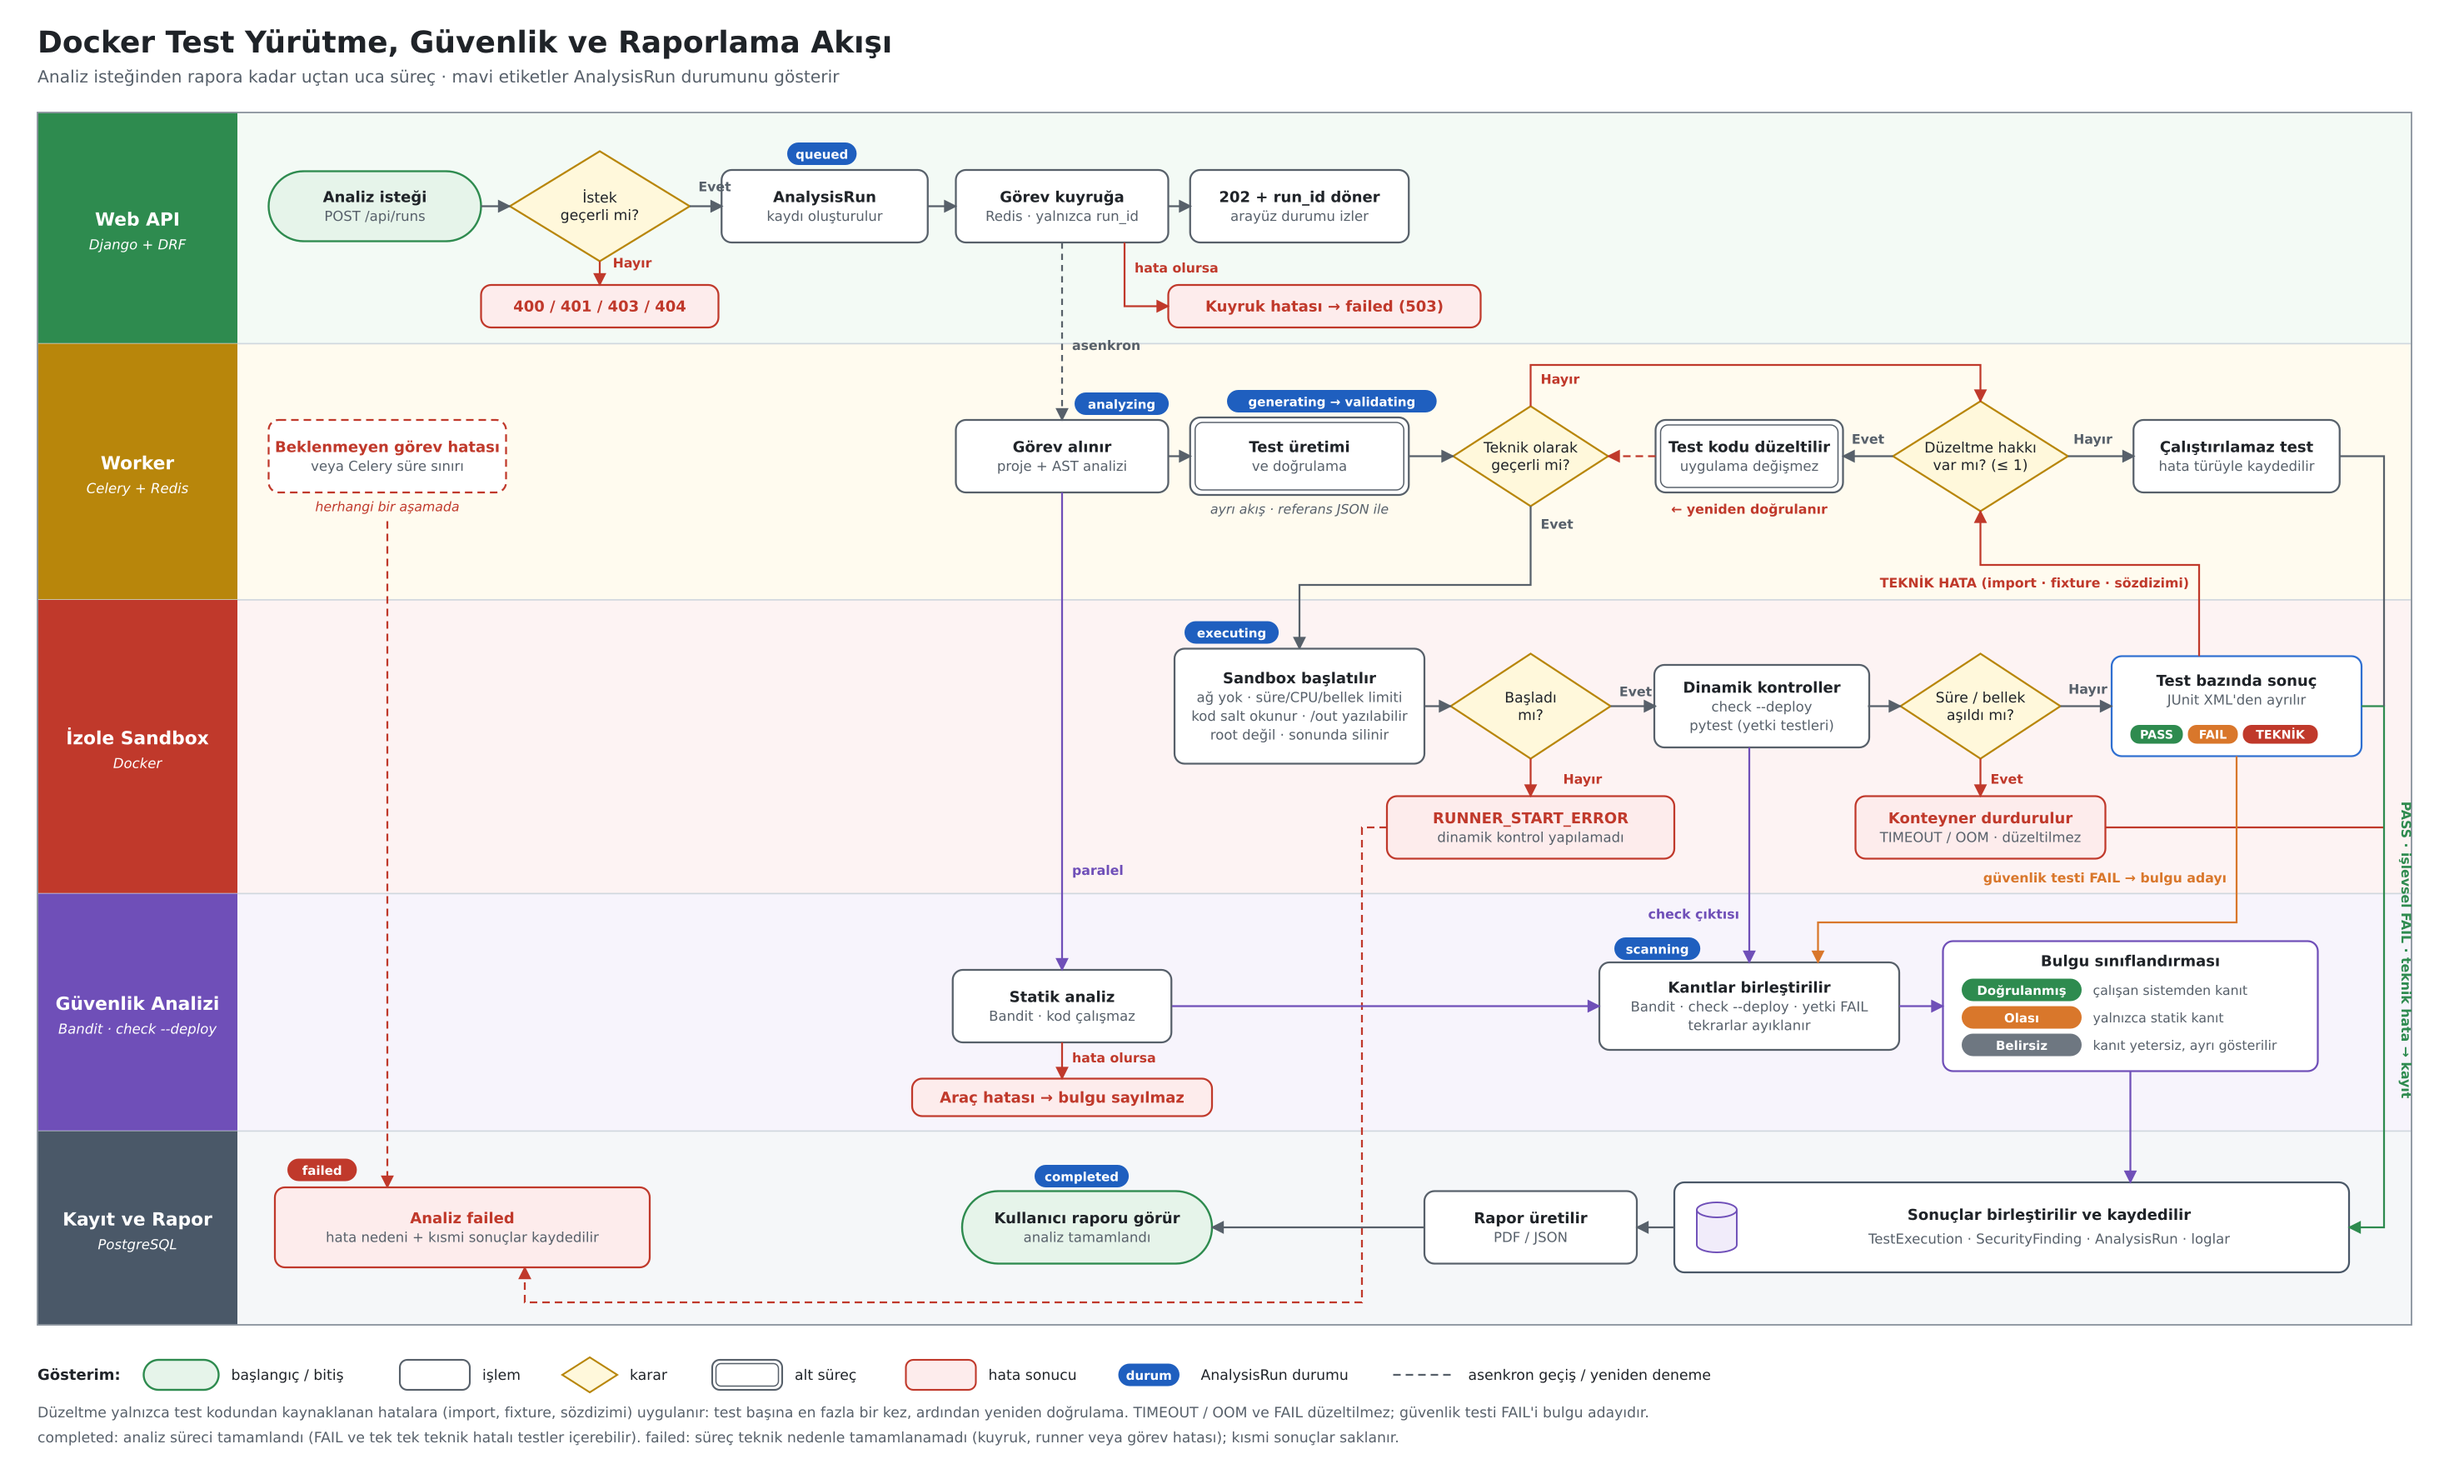
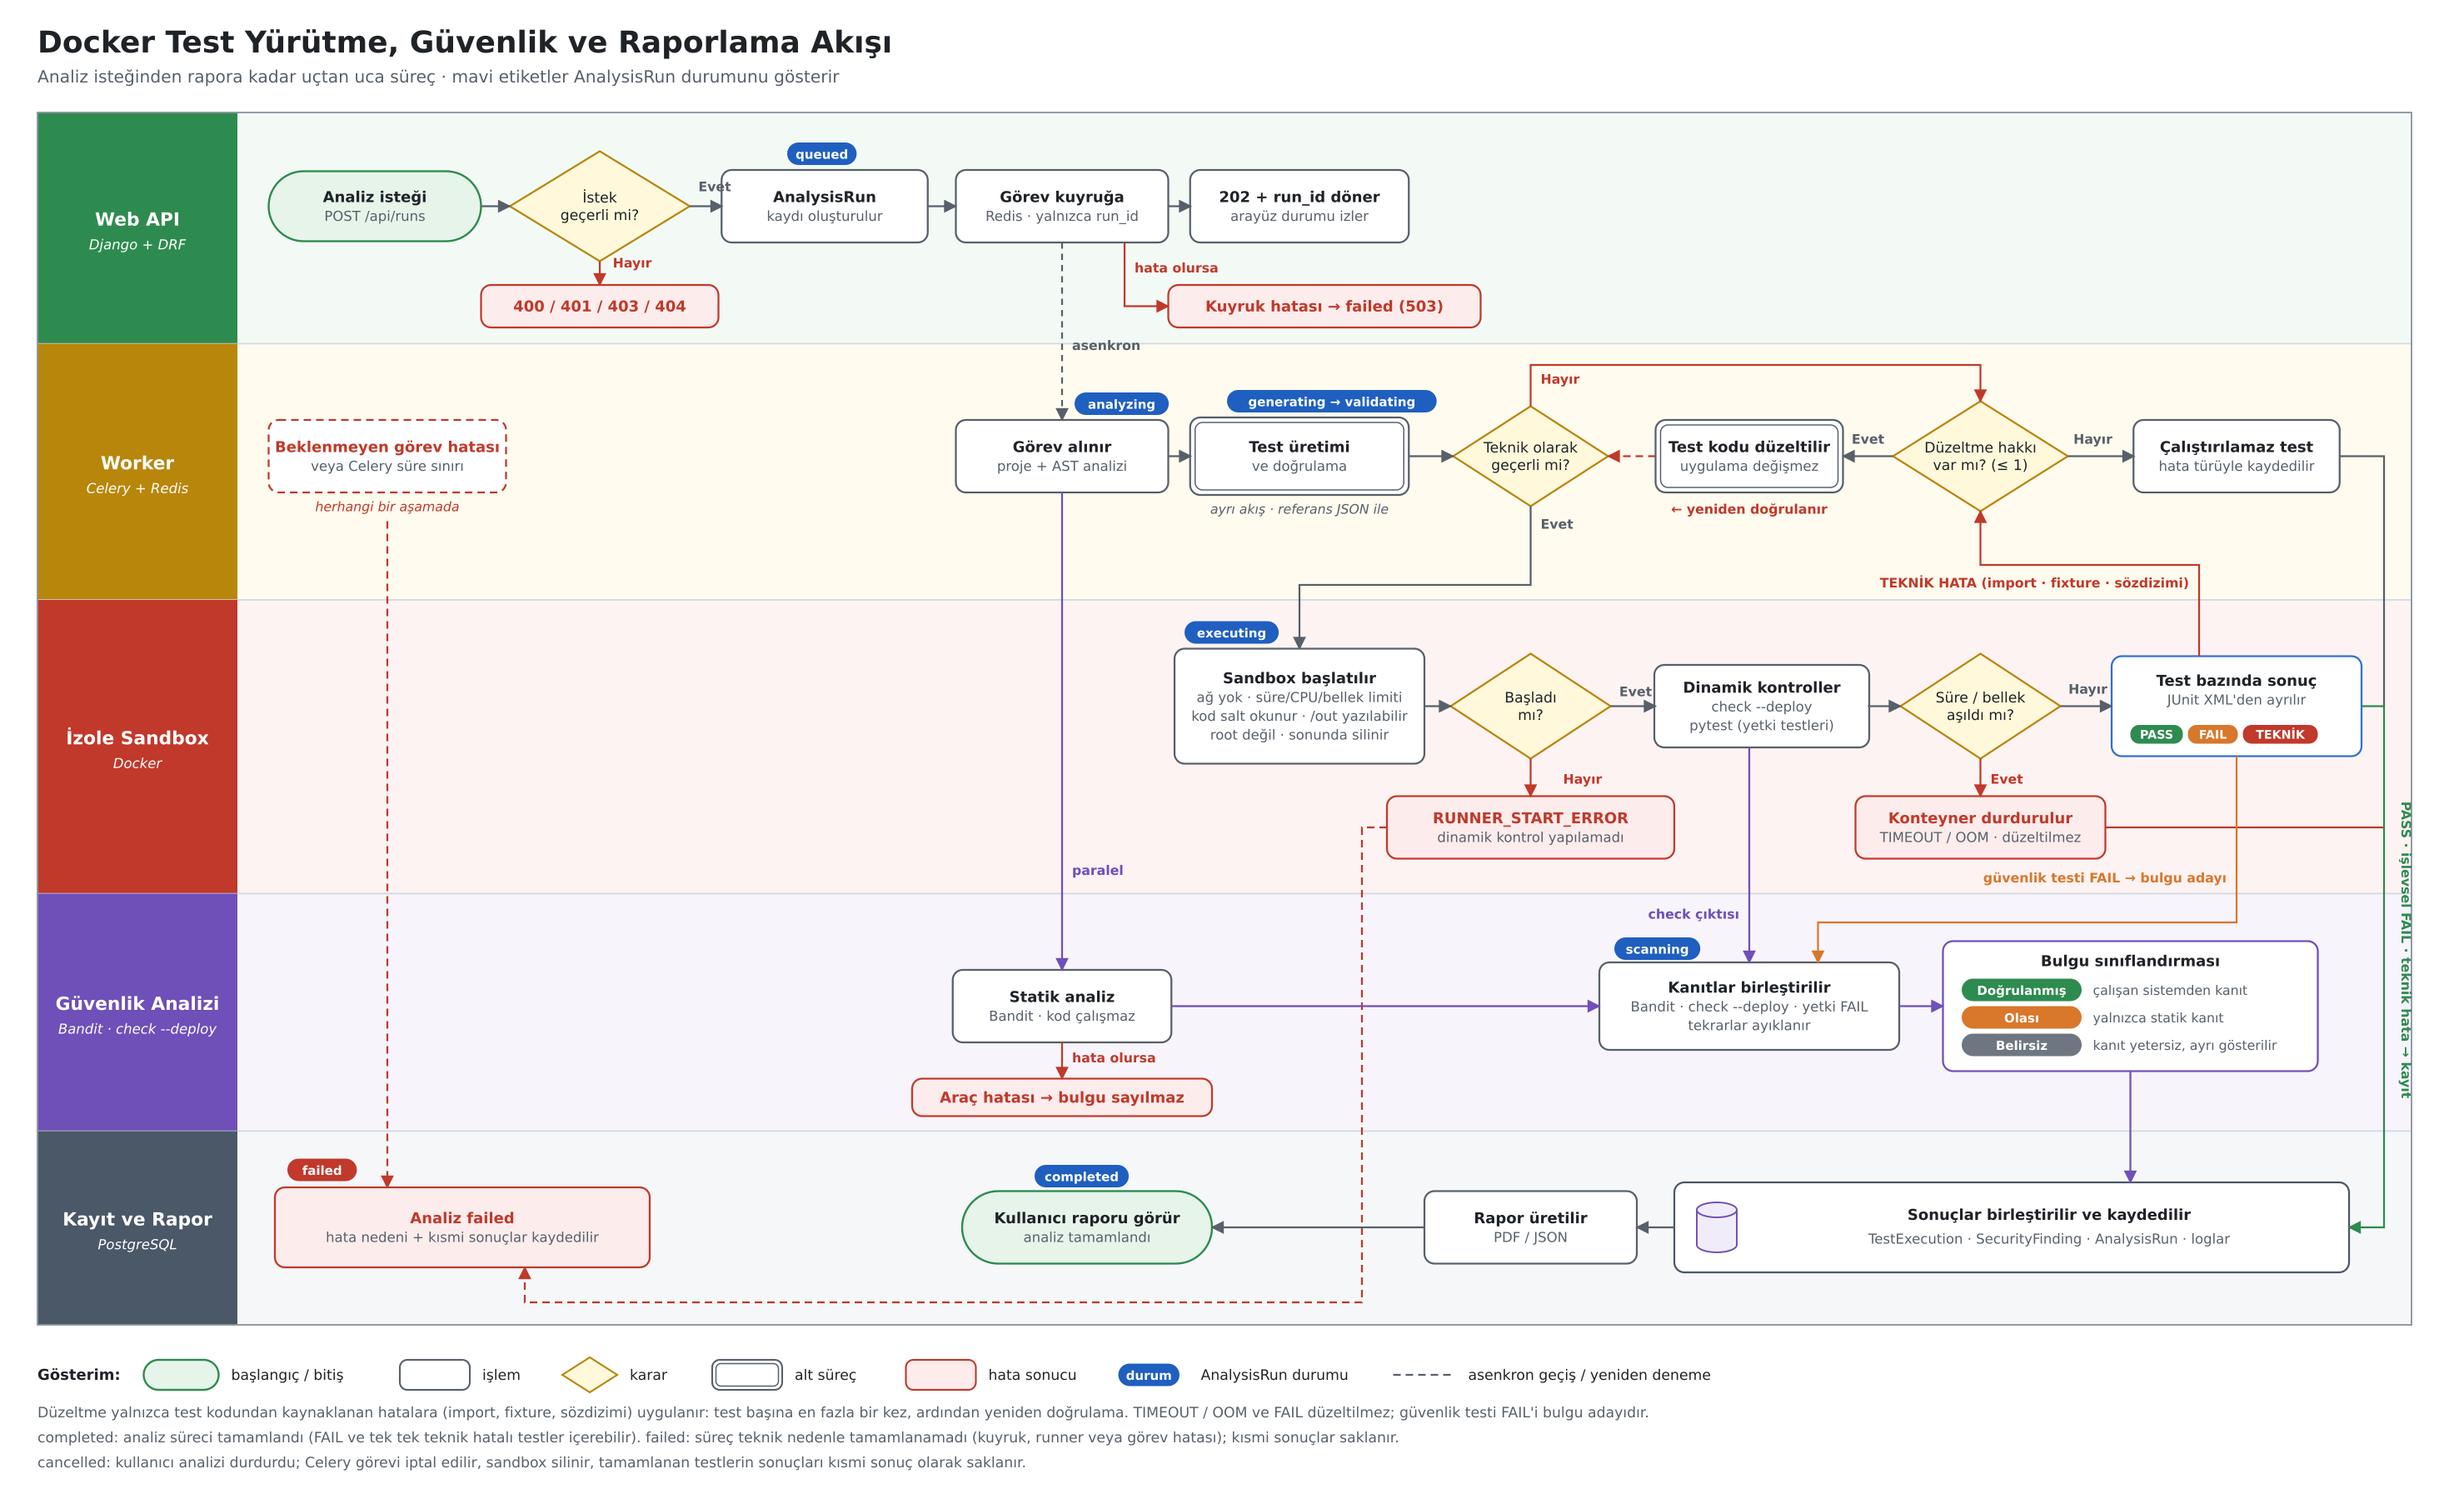
H2: Figma ekranları, tıklanabilir prototip ve kapsam notları
- 31 ekran görüntüsü ve prototip bağlantısı (docs/mockup)
- Kapsam: GET/POST/PUT/PATCH/DELETE; Groq, Gemini, Ollama; analiz durdurma
- Mimari ve akış diyagramları kapsam kararlarına göre güncellendi

Closes #25
Closes #26
Refs #23

diff --git a/docs/mockup/README.md b/docs/mockup/README.md
@@ -1,0 +1,105 @@
+# TestKalkan Arayüz Tasarımı (Figma)
+
+**Figma dosyası ve tıklanabilir prototip:** [Figma bağlantısı]https://www.figma.com/proto/r5UAC665Yj8XTsMIPtOzaq/Yapay-Zek%C3%A2-Ajan%C4%B1yla-Django-Test-%C3%9Cretimi-ve-G%C3%BCvenlik-Analizi?node-id=2-2&t=OCkJfJzB8gPKZSkh-1
+
+Prototip, **01 Giriş** ekranından başlar. Figma'da sağ üstteki ▶ (Present) düğmesiyle çalıştırılabilir.
+
+## Tasarım yaklaşımı
+
+TestKalkan, Django ve DRF projeleri için yapay zekâ destekli test üretimi ve güvenlik analizi yapan bir ürün olarak tasarlanmıştır. Arayüz, React + Vite + TypeScript ile geliştirilecek frontend yapısına doğrudan aktarılabilecek şekilde ortak bir tasarım sistemi üzerine kurulmuştur.
+
+- **Renkler:** Ana renk (#0F5C6E) yalnızca birincil eylemlerde ve gezinmede kullanılmıştır. Durum renkleri mimari ve akış diyagramlarıyla aynıdır: PASS yeşil, FAIL turuncu, teknik hata kırmızı, süreç mavi.
+- **Yazı:** Arayüz metinlerinde IBM Plex Sans; kod, endpoint ve test adlarında IBM Plex Mono kullanılmıştır.
+- **Ortak bileşenler:** Kenar menüsü, üst bar, butonlar, analiz durum rozetleri, analiz aşama şeridi, tablolar, metrik kartları, bildirimler, boş ve yükleniyor durumları tüm ekranlarda aynıdır.
+
+Tasarım sistemi Figma dosyasının **00-Design System** sayfasında yer almaktadır.
+
+## Ekranlar
+
+### Ana akış
+
+| # | Ekran | İçerik | İlgili isterler |
+|---|---|---|---|
+| 01 | [Giriş](ekranlar/01-giris.png) | JWT tabanlı oturum açma, ürün tanıtımı | İST-10 |
+| 02 | [Genel bakış](ekranlar/02-genel-bakis.png) | Özet metrikler, devam eden analiz, analiz geçmişi | İST-13 |
+| 03 | [Proje yükleme](ekranlar/03-proje-yukleme.png) | Arşiv veya izinli dizin seçimi, ön kontrol, desteklenen yapılar | İST-01, İST-16 |
+| 04 | [Referans gereksinimler](ekranlar/04-referans-gereksinimler.png) | Roller, rol bazlı beklenen HTTP yanıtları, dağıtım beklentileri, JSON önizleme | İST-03 |
+| 05 | [Analiz ayarları](ekranlar/05-analiz-ayarlari.png) | Kural tabanlı, doğrudan LLM ve hibrit yöntem; model seçimi ve fallback; sandbox sınırları | İST-04, İST-05, İST-07 |
+| 06 | [Endpointler](ekranlar/06-endpointler.png) | AST ile bulunan URL, view, metot, kimlik doğrulama ve izin bilgileri; kapsam dışı yapılar | İST-02, İST-16 |
+| 07 | [Üretilen testler](ekranlar/07-uretilen-testler.png) | Test listesi, kod önizleme, doğrulama durumu, model erişilemediğinde fallback bildirimi | İST-04, İST-05, İST-06 |
+| 08 | [Test sonuçları](ekranlar/08-test-sonuclari.png) | PASS / FAIL / teknik hata ayrımı, ölçülen metrikler | İST-07, İST-09 |
+| 09 | [Güvenlik bulguları](ekranlar/09-guvenlik-bulgulari.png) | Doğrulanmış / olası / belirsiz sınıflandırma, önem derecesi, kanıt ve düzeltme önerisi | İST-08 |
+| 10 | [Rapor](ekranlar/10-rapor.png) | Rapor önizlemesi, PDF / JSON dışa aktarma, önceki raporlar | İST-09 |
+
+### Durum ekranları
+
+| # | Ekran | Gösterilen durum |
+|---|---|---|
+| 11 | [Giriş hatası](ekranlar/11-giris-hatasi.png) | Hatalı e-posta veya şifre, kalan deneme hakkı |
+| 12 | [Oturum süresi doldu](ekranlar/12-oturum-suresi-doldu.png) | JWT oturumunun sona ermesi |
+| 13 | [Yetkisiz erişim](ekranlar/13-yetkisiz-erisim.png) | Başka bir kullanıcıya ait analize erişim denemesi (403) |
+| 14 | [İlk kullanım](ekranlar/14-ilk-kullanim.png) | Hiç proje olmadığında boş durum |
+| 15 | [Geçersiz proje](ekranlar/15-gecersiz-proje.png) | Arşivde Django projesi bulunamaması |
+| 16 | [Analiz sürüyor](ekranlar/16-analiz-suruyor.png) | Celery ile yürütülen analizin canlı ilerlemesi |
+| 17 | [Analiz başarısız](ekranlar/17-analiz-basarisiz.png) | Sandbox başlatılamadığında hata ayrıntısı ve kısmi sonuçlar |
+| 18 | [Test üretilemedi](ekranlar/18-test-uretilemedi.png) | Desteklenen endpoint bulunamadığında boş sonuç |
+
+### Gezinme ve etkileşim ekranları
+
+| # | Ekran | İçerik |
+|---|---|---|
+| 19 | [Projeler](ekranlar/19-projeler.png) | Yüklenen projeler, referans kuralı durumu ve son analiz |
+| 20 | [Analizler](ekranlar/20-analizler.png) | Tüm analizlerin durum, proje ve yönteme göre filtrelenebilir listesi |
+| 21 | [Raporlar](ekranlar/21-raporlar.png) | Tam ve kısmi raporlar, PDF ve JSON biçimleri |
+| 22 | [Kullanıcı menüsü](ekranlar/22-kullanici-menusu.png) | Profil, şifre değiştirme ve oturumu kapatma |
+| 23 | [Kural ekleme](ekranlar/23-kural-ekleme.png) | Bir endpoint için rol bazlı beklenen HTTP yanıtlarının girilmesi (İST-03) |
+| 24 | [Model seçimi](ekranlar/24-model-secimi.png) | Groq, Gemini ve Ollama (yerel) modelleri ile erişilebilirlik durumları (İST-05, İST-14) |
+| 25 | [Rapor indirildi](ekranlar/25-rapor-indirildi.png) | PDF indirme sonrası kullanıcıya verilen onay (İST-09) |
+| 26 | [Şifre sıfırlama](ekranlar/26-sifre-sifirlama.png) | E-posta ile şifre sıfırlama bağlantısı isteği |
+| 27 | [Profil](ekranlar/27-profil.png) | Hesap bilgileri, şifre değiştirme ve oturumu kapatma |
+| 28 | [Durdurma onayı](ekranlar/28-durdurma-onayi.png) | Devam eden analizi durdurmadan önce kullanıcıdan alınan onay |
+| 29 | [Analiz durduruldu](ekranlar/29-analiz-durduruldu.png) | Kullanıcının durdurduğu analiz ve saklanan kısmi sonuçlar |
+| 30 | [Proje silme onayı](ekranlar/30-proje-silme-onayi.png) | Projeyi ve ona bağlı tüm analiz verilerini silmeden önce alınan onay |
+| 31 | [JSON ile kural yükleme](ekranlar/31-json-ile-kural-yukleme.png) | Referans gereksinimlerin JSON dosyasıyla yüklenmesi ve şema doğrulaması (İST-03) |
+
+## Kullanıcı akışı
+
+```
+01 Giriş ──► 02 Genel bakış
+               ├─► Yeni analiz: 03 Proje yükleme ─► 04 Referans gereksinimler ─► 05 Analiz ayarları ─► 16 Analiz sürüyor
+               ├─► Tamamlanan analiz: 06 Endpointler ─► 07 Üretilen testler ─► 08 Test sonuçları ─► 09 Güvenlik bulguları ─► 10 Rapor
+               ├─► Başarısız analiz: 17 Analiz başarısız ─► Yeniden başlat ─► 16 Analiz sürüyor
+               ├─► Kenar menü: 19 Projeler · 20 Analizler · 21 Raporlar
+               ├─► Kullanıcı menüsü: 22 ─► 27 Profil  |  Çıkış yap ─► 01 Giriş
+               └─► Analiz sürüyor: 16 ─► Analizi durdur ─► 28 Onay ─► 29 Analiz durduruldu
+```
+
+Durum ekranları da (11–18) ilgili ekranlara bağlanmıştır; örneğin oturum süresi dolduğunda kullanıcı giriş ekranına, geçersiz proje yüklendiğinde genel bakışa yönlendirilir. Referans gereksinimler ekranındaki kural ekleme penceresi (23), analiz ayarlarındaki model listesi (24) ve rapor indirme onayı (25) da prototipte tıklanarak açılabilir.
+
+## Diyagramlarla tutarlılık
+
+- Analiz aşama şeridi ve durum rozetleri, `AnalysisRun` durumlarına (`queued → analyzing → generating → validating → executing → scanning → completed | failed`) karşılık gelir.
+- Test sonuçlarındaki PASS / FAIL / teknik hata ayrımı ve tek düzeltme kuralı, [Docker yürütme akış diyagramındaki](../diagrams/akis-docker-guvenlik-raporlama.md) kurallarla aynıdır.
+- Değerlendirme metrikleri (precision, recall, F1-skoru, mutasyon skoru) yalnızca deneylerde hesaplandığı için kullanıcı arayüzünde gösterilmemiştir; arayüzde yalnızca çalıştırılabilir test oranı, kod kapsamı, süre ve token kullanımı yer alır.
+
+## Kapsam notları
+
+Mockup, geliştirilecek sistemin kapsamını tanımlar. Aşağıdaki kararlar bu kapsamın bir parçasıdır:
+
+- **HTTP metotları:** Öneri formunda ilk sürüm için GET ve POST öngörülmüştü. Yetkilendirme açıklarının önemli bir kısmı kayıt silme ve güncelleme işlemlerinde ortaya çıktığı için kapsam, mockup aşamasında GET, POST, PUT, PATCH ve DELETE metotlarını kapsayacak şekilde genişletilmiştir. HEAD ve OPTIONS kapsam dışıdır. Dinamik rotalar ve özel izin sınıfları da kapsam dışıdır ve raporda ayrıca listelenir (İST-16).
+- **Dil modeli sağlayıcıları:** Groq birincil sağlayıcıdır. Gemini, yöntem karşılaştırma deneyleri için ikinci sağlayıcı olarak kullanılır. Ollama ile yerel model seçeneği sunulur; yerel sunucu çalışmıyorsa model listesinde erişilemez olarak gösterilir. Tüm çağrılar LiteLLM üzerinden yapılır.
+- **Hesaplar:** Kullanıcı hesapları yönetici tarafından Django yönetim panelinden oluşturulur; arayüzde ayrı bir kayıt ekranı bulunmaz.
+- **Profil:** Kullanıcı kendi bilgilerini görüntüleyebilir ve şifresini değiştirebilir; ad ve e-posta yönetici tarafından güncellenir.
+- **Analiz durdurma:** Devam eden analiz, kullanıcı onayıyla durdurulabilir. Görev iptal edilir, sandbox silinir, durum `cancelled` olur ve tamamlanan testlerin sonuçları kısmi sonuç olarak saklanır.
+- **Veri yönetimi (CRUD):** Proje oluşturulur (03), listelenir (19) ve silinir (30). Referans kuralları form veya JSON ile eklenir (23, 31), listelenir (04) ve düzenlenir (23).
+- **Yetkilendirme:** Her proje tek bir kullanıcıya aittir. Kullanıcı yalnızca kendi projelerinin analizlerini görebilir; başka bir kullanıcıya ait analize erişim 403 ile reddedilir.
+- **Deneyler:** Üç yöntemin karşılaştırılması ve precision, recall, F1-skoru, mutasyon skoru gibi değerlendirme metrikleri arayüzde değil, deney betikleri ve notebook'lar ile yürütülür.
+- **Loglar:** Sistem logları sunucuda tutulur; arayüzde yalnızca başarısız analizlerin hata ayrıntısı gösterilir.
+
+## Sorumluluk dağılımı
+
+| Ekranlar | Sorumlu |
+|---|---|
+| 03, 04, 05, 06, 07, 15, 18, 23, 24, 31 | Reyyan Erva Gökkaya |
+| 01, 02, 08, 09, 10, 11, 12, 13, 14, 19, 20, 21, 22, 25, 26, 27, 28, 29, 30 | Merve Çaloğlu |
+| 00 Tasarım sistemi, 16, 17 | Ortak |
